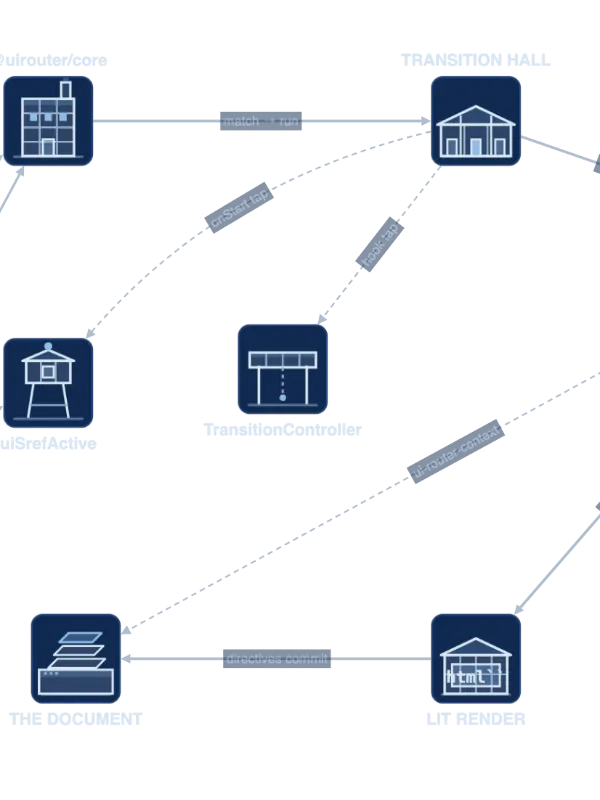
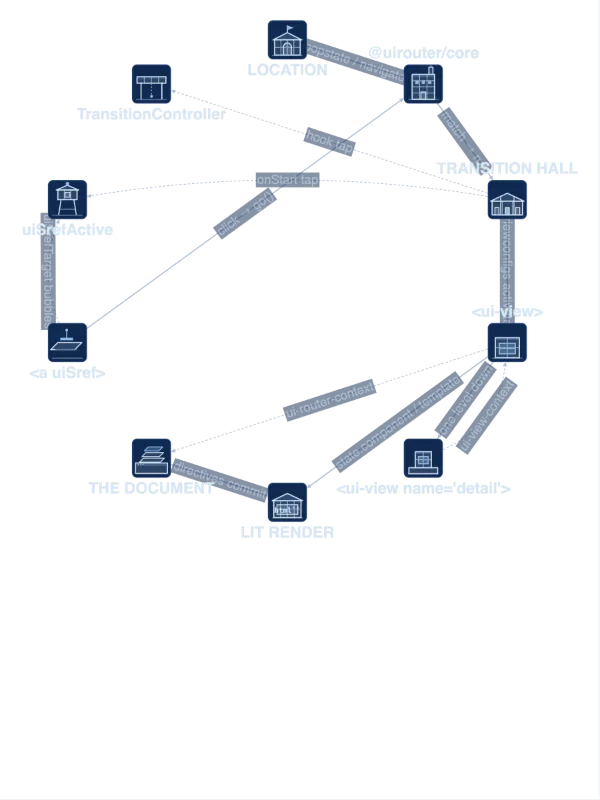
feat: the four lanes are re-laid for the card, not sliced
A lane is a cytoscape graph laid out for its landscape stage, and a portrait
slice of it photographed a corner: two station icons and empty field on 1i,
two nodes on 2b, a sliced grid on 12i, one column with its edge fan on 14i.

thumbs.mjs now re-lays a lane into the card's own proportion before the shot:
the stage becomes a portrait block at three times card size, the graph gets
a named layout with a portrait bounding box or a quarter turn of its preset
positions, labels are restyled, and the whole graph is fitted and anchored to
the top. Each lane keeps a handle on its own graph (`stage.__cy`) for that
purpose and nothing on the page reads it. The loop is a ring, the bench is
stood up with its caption bands hidden, the register is fitted as the
punchcard it is, and the pipeline rings out from its basis node.

Claude-Session: https://claude.ai/code/session_01D1vGNxyKzYdyFrP83hW1Zr

diff --git a/www/atlas.lit-ui-router.dev/gallery.html b/www/atlas.lit-ui-router.dev/gallery.html
@@ -980,6 +980,10 @@ a { color: var(--accent); }
 
   var cy = cytoscape({ container: stage, elements: els, style: style(pal()), layout: { name: 'preset' },
     minZoom: 0.3, maxZoom: 2.6, autoungrabify: true });
+  // The stage keeps a handle on its own graph. Nothing on the page reads it;
+  // generator/thumbs.mjs does, to re-lay this lane into the portrait window of
+  // a cover card before photographing it — a landscape slice read as a corner.
+  stage.__cy = cy;
   cy.fit(cy.elements(), 42);
 
   // ---- the walk ------------------------------------------------------------
@@ -2031,6 +2035,10 @@ excerpt and every count are the plate's.</p>
 
   var cy = cytoscape({ container: stage, elements: els, style: style(pal()), layout: { name: 'preset' },
     minZoom: 0.25, maxZoom: 2.6, autoungrabify: true });
+  // The stage keeps a handle on its own graph. Nothing on the page reads it;
+  // generator/thumbs.mjs does, to re-lay this lane into the portrait window of
+  // a cover card before photographing it — a landscape slice read as a corner.
+  stage.__cy = cy;
   cy.fit(cy.elements(), 40);
 
   var info = document.getElementById('cb-info');
@@ -8831,6 +8839,10 @@ excerpt and every count are the plate's.</p>
 
   var cy = cytoscape({ container: stage, elements: els, style: style(pal()), layout: { name: 'preset' },
     minZoom: 0.12, maxZoom: 3.4, autoungrabify: true });
+  // The stage keeps a handle on its own graph. Nothing on the page reads it;
+  // generator/thumbs.mjs does, to re-lay this lane into the portrait window of
+  // a cover card before photographing it — a landscape slice read as a corner.
+  stage.__cy = cy;
 
   var shroud = false;
   function applyShroud() {
@@ -9130,6 +9142,10 @@ colours; this prose. The nodes, the edges, the column ranking, every count and e
 
   var cy = cytoscape({ container: stage, elements: els, style: style(pal()), layout: { name: 'preset' },
     minZoom: 0.2, maxZoom: 2.6, autoungrabify: true });
+  // The stage keeps a handle on its own graph. Nothing on the page reads it;
+  // generator/thumbs.mjs does, to re-lay this lane into the portrait window of
+  // a cover card before photographing it — a landscape slice read as a corner.
+  stage.__cy = cy;
 
   function showTools(on) {
     cy.elements('.tool').style('display', on ? 'element' : 'none');

diff --git a/www/atlas.lit-ui-router.dev/sheet-1i-the-render-loop-walked.html b/www/atlas.lit-ui-router.dev/sheet-1i-the-render-loop-walked.html
@@ -630,6 +630,10 @@ a { color: var(--accent); }
 
   var cy = cytoscape({ container: stage, elements: els, style: style(pal()), layout: { name: 'preset' },
     minZoom: 0.3, maxZoom: 2.6, autoungrabify: true });
+  // The stage keeps a handle on its own graph. Nothing on the page reads it;
+  // generator/thumbs.mjs does, to re-lay this lane into the portrait window of
+  // a cover card before photographing it — a landscape slice read as a corner.
+  stage.__cy = cy;
   cy.fit(cy.elements(), 42);
 
   // ---- the walk ------------------------------------------------------------

diff --git a/www/atlas.lit-ui-router.dev/sheet-14i-the-survey-office-interactive.html b/www/atlas.lit-ui-router.dev/sheet-14i-the-survey-office-interactive.html
@@ -623,6 +623,10 @@ a { color: var(--accent); }
 
   var cy = cytoscape({ container: stage, elements: els, style: style(pal()), layout: { name: 'preset' },
     minZoom: 0.2, maxZoom: 2.6, autoungrabify: true });
+  // The stage keeps a handle on its own graph. Nothing on the page reads it;
+  // generator/thumbs.mjs does, to re-lay this lane into the portrait window of
+  // a cover card before photographing it — a landscape slice read as a corner.
+  stage.__cy = cy;
 
   function showTools(on) {
     cy.elements('.tool').style('display', on ? 'element' : 'none');

diff --git a/www/atlas.lit-ui-router.dev/app/public/sheets/1i.html b/www/atlas.lit-ui-router.dev/app/public/sheets/1i.html
@@ -155,6 +155,10 @@
 
   var cy = cytoscape({ container: stage, elements: els, style: style(pal()), layout: { name: 'preset' },
     minZoom: 0.3, maxZoom: 2.6, autoungrabify: true });
+  // The stage keeps a handle on its own graph. Nothing on the page reads it;
+  // generator/thumbs.mjs does, to re-lay this lane into the portrait window of
+  // a cover card before photographing it — a landscape slice read as a corner.
+  stage.__cy = cy;
   cy.fit(cy.elements(), 42);
 
   // ---- the walk ------------------------------------------------------------

diff --git a/www/atlas.lit-ui-router.dev/sheet-2B-the-coupling-bench.html b/www/atlas.lit-ui-router.dev/sheet-2B-the-coupling-bench.html
@@ -615,6 +615,10 @@ a { color: var(--accent); }
 
   var cy = cytoscape({ container: stage, elements: els, style: style(pal()), layout: { name: 'preset' },
     minZoom: 0.25, maxZoom: 2.6, autoungrabify: true });
+  // The stage keeps a handle on its own graph. Nothing on the page reads it;
+  // generator/thumbs.mjs does, to re-lay this lane into the portrait window of
+  // a cover card before photographing it — a landscape slice read as a corner.
+  stage.__cy = cy;
   cy.fit(cy.elements(), 40);
 
   var info = document.getElementById('cb-info');

diff --git a/www/atlas.lit-ui-router.dev/app/public/sheets/14i.html b/www/atlas.lit-ui-router.dev/app/public/sheets/14i.html
@@ -148,6 +148,10 @@
 
   var cy = cytoscape({ container: stage, elements: els, style: style(pal()), layout: { name: 'preset' },
     minZoom: 0.2, maxZoom: 2.6, autoungrabify: true });
+  // The stage keeps a handle on its own graph. Nothing on the page reads it;
+  // generator/thumbs.mjs does, to re-lay this lane into the portrait window of
+  // a cover card before photographing it — a landscape slice read as a corner.
+  stage.__cy = cy;
 
   function showTools(on) {
     cy.elements('.tool').style('display', on ? 'element' : 'none');

diff --git a/www/atlas.lit-ui-router.dev/app/public/sheets/2b.html b/www/atlas.lit-ui-router.dev/app/public/sheets/2b.html
@@ -140,6 +140,10 @@
 
   var cy = cytoscape({ container: stage, elements: els, style: style(pal()), layout: { name: 'preset' },
     minZoom: 0.25, maxZoom: 2.6, autoungrabify: true });
+  // The stage keeps a handle on its own graph. Nothing on the page reads it;
+  // generator/thumbs.mjs does, to re-lay this lane into the portrait window of
+  // a cover card before photographing it — a landscape slice read as a corner.
+  stage.__cy = cy;
   cy.fit(cy.elements(), 40);
 
   var info = document.getElementById('cb-info');

diff --git a/www/atlas.lit-ui-router.dev/sheet-12i-the-register-walked.html b/www/atlas.lit-ui-router.dev/sheet-12i-the-register-walked.html
@@ -636,6 +636,10 @@ a { color: var(--accent); }
 
   var cy = cytoscape({ container: stage, elements: els, style: style(pal()), layout: { name: 'preset' },
     minZoom: 0.12, maxZoom: 3.4, autoungrabify: true });
+  // The stage keeps a handle on its own graph. Nothing on the page reads it;
+  // generator/thumbs.mjs does, to re-lay this lane into the portrait window of
+  // a cover card before photographing it — a landscape slice read as a corner.
+  stage.__cy = cy;
 
   var shroud = false;
   function applyShroud() {

diff --git a/www/atlas.lit-ui-router.dev/app/public/sheets/12i.html b/www/atlas.lit-ui-router.dev/app/public/sheets/12i.html
@@ -161,6 +161,10 @@
 
   var cy = cytoscape({ container: stage, elements: els, style: style(pal()), layout: { name: 'preset' },
     minZoom: 0.12, maxZoom: 3.4, autoungrabify: true });
+  // The stage keeps a handle on its own graph. Nothing on the page reads it;
+  // generator/thumbs.mjs does, to re-lay this lane into the portrait window of
+  // a cover card before photographing it — a landscape slice read as a corner.
+  stage.__cy = cy;
 
   var shroud = false;
   function applyShroud() {
